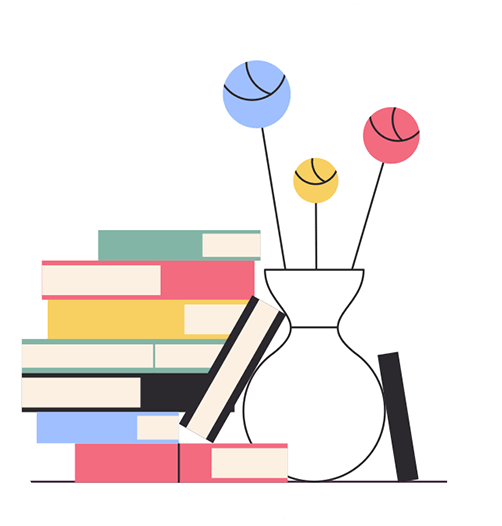
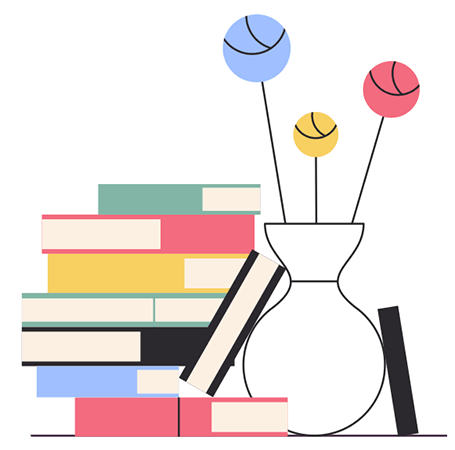
modified for desktop

Changed region(s): [[0.0308, 0.0311, 0.9846, 0.9956]]

diff --git a/home/index.html b/home/index.html
@@ -34,75 +34,79 @@
         </header>
         <main>
             <section class="container">
-                <div class="image1">
-                    <img src="./img/Layer 2@1X.png" alt="reading books">
-                </div>
-                <div class="content">
-                    <h1>Innovation for education and society</h1>
-                    <p>Our interdisciplinary majors and minors mean you can chart your own course for academic success.</p>
-                    <a href="#">Visit our Campus </a>
-                </div>
-                <div class="image2">
-                    <img src="./img/Layer 1.png" alt="flower pot image">
-                </div>
-            </section>
-            <section class="blocks">
-                <div class="block1">
-                    <div class="pink">
-                        <img src="./img/L0001@1X.png" alt="engineering logo">
-                        <p>Engineering</p>
+                <div class="wrapper">
+                    <div class="image1">
+                        <img src="./img/Layer 2@1X.png" alt="reading books">
                     </div>
-                    <div class="green">
-                        <img src="./img/acc.png" alt="accounting logo">
-                        <p>Accounting</p>
+                    <div class="content">
+                        <h1>Innovation for education and society</h1>
+                        <p>Our interdisciplinary majors and minors mean you can chart your own course for academic success.</p>
+                        <a href="#">Visit our Campus </a>
                     </div>
-                    <div class="orange">
-                        <img src="./img/Forma 1@1X.png" alt="Creative logo">
-                        <p>Creative</p>
+                    <div class="image2">
+                        <img src="./img/Layer 1.png" alt="flower pot image">
                     </div>
                 </div>
-                <div class="block1">
-                    <div class="orangel">
-                        <img src="./img/Forma 1@1X (1).png" alt="Design logo">
-                        <p>Engineering</p>
-                    </div>
-                    <div class="yellow">
-                        <img src="./img/Shape 1@1X.png" alt="Physics logo">
-                        <p>Physics</p>
-                    </div>
-                    <div class="blue">
-                        <img src="./img/Forma 1@1X (2).png" alt="Chemistry logo">
-                        <p>Chemistry</p>
-                    </div>
-                </div>
-            </section>
-            <section class="pic">
-                <section class="blocks">
-                    <div class="college">
-                        <div class="university">
-                            <img src="./img/vadim-sherbakov-194-unsplash@1X.png" alt="">
+                <div class="pic">
+                    <div class="grid">
+                        <div class="block1">
+                            <div class="pink">
+                                <img src="./img/L0001@1X.png" alt="engineering logo">
+                                <p>Engineering</p>
+                            </div>
+                            <div class="green">
+                                <img src="./img/acc.png" alt="accounting logo">
+                                <p>Accounting</p>
+                            </div>
+                            <div class="orange">
+                                <img src="./img/Forma 1@1X.png" alt="Creative logo">
+                                <p>Creative</p>
+                            </div>
                         </div>
-                        <div class="more">
-                           <h2>Limitless learning, more  possibilities</h2>
-                           <p>The University of Rochester is one of the country's top-tier research universities. Our campuses are home to 200 academic majors, more than 2,000 faculty and instructional staff, and some 10,000 students—approximately half of whom are women.</p>
-                           <p> Learning at the University of Rochester is also on a very personal scale. Rochester remains one of the smallest and most collegiate among top research universities, with smaller classes, a low 10:1 student to teacher ratio, and increased interactions with faculty.</p>
-                            <div class="count">
-                                <div class="four">
-                                    <h3>4000</h3>
-                                    <p>Students</p>
-                                </div>
-                                <div class="two">
-                                    <h3>200</h3>
-                                    <p>Courses</p>
-                                </div>
-                                <div class="five">
-                                    <h3>5679</h3>
-                                    <p>Hours video</p>
-                                </div>
+                        <div class="block1">
+                            <div class="orangel">
+                                <img src="./img/Forma 1@1X (1).png" alt="Design logo">
+                                <p>Engineering</p>
+                            </div>
+                            <div class="yellow">
+                                <img src="./img/Shape 1@1X.png" alt="Physics logo">
+                                <p>Physics</p>
+                            </div>
+                            <div class="blue">
+                                <img src="./img/Forma 1@1X (2).png" alt="Chemistry logo">
+                                <p>Chemistry</p>
                             </div>
                         </div>
                     </div>
-                </section>
+                    <div class="blocku-wrapper">
+                        <div class="blocku">
+                            <div class="college">
+                                <div class="university">
+                                    <img src="./img/vadim-sherbakov-194-unsplash@1X.png" alt="">
+                                </div>
+                                <div class="more">
+                                   <h2>Limitless learning, more  possibilities</h2>
+                                   <p>The University of Rochester is one of the country's top-tier research universities. Our campuses are home to 200 academic majors, more than 2,000 faculty and instructional staff, and some 10,000 students—approximately half of whom are women.</p>
+                                   <p> Learning at the University of Rochester is also on a very personal scale. Rochester remains one of the smallest and most collegiate among top research universities, with smaller classes, a low 10:1 student to teacher ratio, and increased interactions with faculty.</p>
+                                    <div class="count">
+                                        <div class="four">
+                                            <h3>4000</h3>
+                                            <p>Students</p>
+                                        </div>
+                                        <div class="two">
+                                            <h3>200</h3>
+                                            <p>Courses</p>
+                                        </div>
+                                        <div class="five">
+                                            <h3>5679</h3>
+                                            <p>Hours video</p>
+                                        </div>
+                                    </div>
+                                </div>
+                            </div>
+                    </div>
+                    </div>
+                </div>
             </section>
             <section class="fast">
                 <div class="work">

diff --git a/home/css/style.css b/home/css/style.css
@@ -48,34 +48,35 @@ body{
 }
 .apply a{
     padding: 0.5rem 1.5rem;
-    border: 1px solid #000;
+    border: 1px solid #FFFFFF;
     border-radius: 2rem;
-    box-shadow: 0 0 0.5rem #d3d3d3;
+    box-shadow: 0 0 1rem #d3d3d3;
     color: #43CB83;
+    background-color: #FFFFFF;
 }
 .container{
-    display: flex;
-    padding: 8rem 0 8rem 0;
+    padding: 8rem 0 0 0;
     background-image: url('./img/download.png');
     background-repeat: no-repeat;
-    background-size: 65rem;
-    background-position: right;
+    background-size: 40%;
+    background-position: top 0rem right 0rem;
 }
-.image1{
-    width: 30%;
+.wrapper{
+    display: flex;
 }
 .image1 img{
-    width: 80%;
+    width: 73%;
 }
 .content{
     padding: 5rem 0 0 0;
     width: 37%;
 }
 .image2{
-    width: 33%;
+    width: 22%;
+    margin: 6rem 8rem 0 0;
 }
 .image2 img{
-    width: 59%;
+    width: 82%;
 }
 .content h1{
     color: #43CB83;
@@ -93,9 +94,26 @@ body{
     background-color: #43CB83;
     color: #fff;
 }
-.blocks{
+.grid{
     display:block;
     width:50%;
+    margin: 0 auto;
+    padding: 5rem 0;
+}
+.blocku{
+    display:block;
+    width:50%;
+    margin: 0 auto;
+}
+.blocku-wrapper{
+    background-size: 13%;
+    background-image: url(./img/Group\ 10@1X.png);
+    background-repeat: no-repeat;
+    background-position: top 7rem left 22rem;
+}
+.blocks{
+    display:block;
+    width:65%;
     margin: 0 auto;
 }
 .block1 p{
@@ -103,10 +121,10 @@ body{
     font-size: 1.5rem;
 }
 .pic{
-    background-image: url('./img/Group\ 10@1X.png'), url('./img/download.png');
+    background-image: url('./img/download.png');
     background-repeat: no-repeat;
-    background-position: left -1rem top -4rem;
-    background-size: 44rem;
+    background-position: bottom -2rem left -19rem;
+    background-size: 55%;
 }
 .block1{
     display: flex;
@@ -155,7 +173,7 @@ body{
 }
 .college{
     display: flex;
-    padding: 5rem 0;
+    padding: 5rem 0 10rem 0;
 }
 .more{
    width: 50%;
@@ -163,7 +181,7 @@ body{
 .more h2{
     color: #43CB83;
     font-size: 2.5rem;
-    padding: 1rem 8rem 0 0;
+    padding: 1rem 0 0 0;
 }
 .more p{
     padding: 1rem 0;
